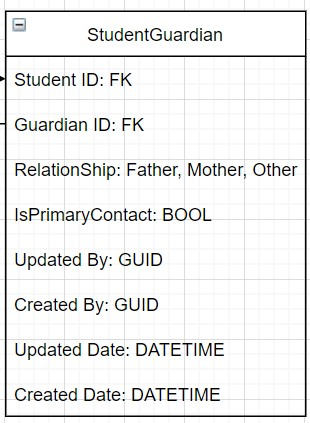
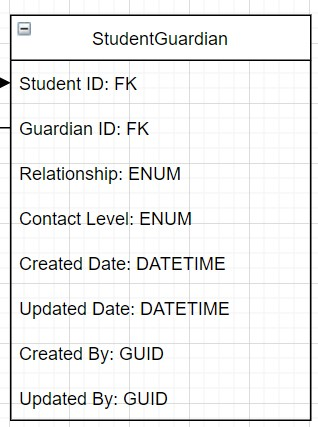
DATA: StudentGuardian Model & Migration

Changed region(s): [[0.0, 0.0, 1.0, 1.0]]

diff --git a/SCMS.Services.Api/Migrations/20211107160259_AddStudentGuardianModel.cs b/SCMS.Services.Api/Migrations/20211107160259_AddStudentGuardianModel.cs
@@ -1,0 +1,61 @@
+// -----------------------------------------------------------------------
+// Copyright (c) Signature Chess Club & MumsWhoCode. All rights reserved.
+// -----------------------------------------------------------------------
+
+using System;
+using Microsoft.EntityFrameworkCore.Migrations;
+
+#nullable disable
+
+namespace SCMS.Services.Api.Migrations
+{
+    public partial class AddStudentGuardianModel : Migration
+    {
+        protected override void Up(MigrationBuilder migrationBuilder)
+        {
+            migrationBuilder.CreateTable(
+                name: "StudentGuardians",
+                columns: table => new
+                {
+                    StudentId = table.Column<Guid>(type: "uniqueidentifier", nullable: false),
+                    GuardianId = table.Column<Guid>(type: "uniqueidentifier", nullable: false),
+                    Relation = table.Column<int>(type: "int", nullable: false),
+                    Level = table.Column<int>(type: "int", nullable: false),
+                    CreatedDate = table.Column<DateTimeOffset>(type: "datetimeoffset", nullable: false),
+                    UpdatedDate = table.Column<DateTimeOffset>(type: "datetimeoffset", nullable: false),
+                    CreatedBy = table.Column<Guid>(type: "uniqueidentifier", nullable: false),
+                    UpdatedBy = table.Column<Guid>(type: "uniqueidentifier", nullable: false)
+                },
+                constraints: table =>
+                {
+                    table.PrimaryKey("PK_StudentGuardians", x => new { x.StudentId, x.GuardianId });
+                    table.ForeignKey(
+                        name: "FK_StudentGuardians_Users_CreatedBy",
+                        column: x => x.CreatedBy,
+                        principalTable: "Users",
+                        principalColumn: "Id");
+                    table.ForeignKey(
+                        name: "FK_StudentGuardians_Users_UpdatedBy",
+                        column: x => x.UpdatedBy,
+                        principalTable: "Users",
+                        principalColumn: "Id");
+                });
+
+            migrationBuilder.CreateIndex(
+                name: "IX_StudentGuardians_CreatedBy",
+                table: "StudentGuardians",
+                column: "CreatedBy");
+
+            migrationBuilder.CreateIndex(
+                name: "IX_StudentGuardians_UpdatedBy",
+                table: "StudentGuardians",
+                column: "UpdatedBy");
+        }
+
+        protected override void Down(MigrationBuilder migrationBuilder)
+        {
+            migrationBuilder.DropTable(
+                name: "StudentGuardians");
+        }
+    }
+}

diff --git a/SCMS.Services.Api/Brokers/Storages/StorageBroker.StudentGuardian.References.cs b/SCMS.Services.Api/Brokers/Storages/StorageBroker.StudentGuardian.References.cs
@@ -1,0 +1,31 @@
+// -----------------------------------------------------------------------
+// Copyright (c) Signature Chess Club & MumsWhoCode. All rights reserved.
+// -----------------------------------------------------------------------
+
+using Microsoft.EntityFrameworkCore;
+using SCMS.Services.Api.Models.Foundations.StudentGuardians;
+
+namespace SCMS.Services.Api.Brokers.Storages
+{
+    public partial class StorageBroker
+    {
+        public void SetStudentGuardianReferences(ModelBuilder modelBuilder)
+        {
+            modelBuilder.Entity<StudentGuardian>()
+                .HasKey(studentGuardian =>
+                    new { studentGuardian.StudentId, studentGuardian.GuardianId });
+
+            modelBuilder.Entity<StudentGuardian>()
+                .HasOne(studentGuardian => studentGuardian.CreatedByUser)
+                .WithMany(user => user.CreatedStudentGuardians)
+                .HasForeignKey(studentGuardian => studentGuardian.CreatedBy)
+                .OnDelete(DeleteBehavior.NoAction);
+
+            modelBuilder.Entity<StudentGuardian>()
+                .HasOne(studentGuardian => studentGuardian.UpdatedByUser)
+                .WithMany(user => user.UpdatedStudentGuardians)
+                .HasForeignKey(studentGuardian => studentGuardian.UpdatedBy)
+                .OnDelete(DeleteBehavior.NoAction);
+        }
+    }
+}

diff --git a/SCMS.Services.Api/Models/Foundations/StudentGuardians/StudentGuardian.cs b/SCMS.Services.Api/Models/Foundations/StudentGuardians/StudentGuardian.cs
@@ -1,0 +1,25 @@
+// -----------------------------------------------------------------------
+// Copyright (c) Signature Chess Club & MumsWhoCode. All rights reserved.
+// -----------------------------------------------------------------------
+
+using System;
+using SCMS.Services.Api.Models.Foundations.Users;
+
+namespace SCMS.Services.Api.Models.Foundations.StudentGuardians
+{
+    public class StudentGuardian
+    {
+        public Guid StudentId { get; set; }
+        public Guid GuardianId { get; set; }
+        public Relationship Relation { get; set; }
+        public ContactLevel Level { get; set; }
+        public DateTimeOffset CreatedDate { get; set; }
+        public DateTimeOffset UpdatedDate { get; set; }
+
+        public Guid CreatedBy { get; set; }
+        public User CreatedByUser { get; set; }
+
+        public Guid UpdatedBy { get; set; }
+        public User UpdatedByUser { get; set; }
+    }
+}

diff --git a/SCMS.Services.Api/Migrations/20211107160259_AddStudentGuardianModel.Designer.cs b/SCMS.Services.Api/Migrations/20211107160259_AddStudentGuardianModel.Designer.cs
@@ -3,6 +3,7 @@ using System;
 using Microsoft.EntityFrameworkCore;
 using Microsoft.EntityFrameworkCore.Infrastructure;
 using Microsoft.EntityFrameworkCore.Metadata;
+using Microsoft.EntityFrameworkCore.Migrations;
 using Microsoft.EntityFrameworkCore.Storage.ValueConversion;
 using SCMS.Services.Api.Brokers.Storages;
 
@@ -11,9 +12,10 @@ using SCMS.Services.Api.Brokers.Storages;
 namespace SCMS.Services.Api.Migrations
 {
     [DbContext(typeof(StorageBroker))]
-    partial class StorageBrokerModelSnapshot : ModelSnapshot
+    [Migration("20211107160259_AddStudentGuardianModel")]
+    partial class AddStudentGuardianModel
     {
-        protected override void BuildModel(ModelBuilder modelBuilder)
+        protected override void BuildTargetModel(ModelBuilder modelBuilder)
         {
 #pragma warning disable 612, 618
             modelBuilder

diff --git a/SCMS.Services.Api/Models/Foundations/Users/User.cs b/SCMS.Services.Api/Models/Foundations/Users/User.cs
@@ -7,6 +7,7 @@ using System.Collections.Generic;
 using System.Text.Json.Serialization;
 using SCMS.Services.Api.Models.Foundations.Guardians;
 using SCMS.Services.Api.Models.Foundations.Schools;
+using SCMS.Services.Api.Models.Foundations.StudentGuardians;
 using SCMS.Services.Api.Models.Foundations.Students;
 using SCMS.Services.Api.Models.Foundations.StudentSchools;
 
@@ -40,5 +41,11 @@ namespace SCMS.Services.Api.Models.Foundations.Users
 
         [JsonIgnore]
         public IEnumerable<Guardian> UpdatedGuardians { get; set; }
+
+        [JsonIgnore]
+        public IEnumerable<StudentGuardian> CreatedStudentGuardians { get; set; }
+
+        [JsonIgnore]
+        public IEnumerable<StudentGuardian> UpdatedStudentGuardians { get; set; }
     }
 }

diff --git a/SCMS.Services.Api/Models/Foundations/StudentGuardians/Relationship.cs b/SCMS.Services.Api/Models/Foundations/StudentGuardians/Relationship.cs
@@ -2,13 +2,12 @@
 // Copyright (c) Signature Chess Club & MumsWhoCode. All rights reserved.
 // -----------------------------------------------------------------------
 
-using Microsoft.EntityFrameworkCore;
-using SCMS.Services.Api.Models.Foundations.Users;
-
-namespace SCMS.Services.Api.Brokers.Storages
+namespace SCMS.Services.Api.Models.Foundations.StudentGuardians
 {
-    public partial class StorageBroker
+    public enum Relationship
     {
-        DbSet<User> Users { get; set; }
+        Mother,
+        Father,
+        Other
     }
 }

diff --git a/SCMS.Services.Api/Services/Foundations/Schools/SchoolService.Exceptions.cs b/SCMS.Services.Api/Services/Foundations/Schools/SchoolService.Exceptions.cs
@@ -45,7 +45,7 @@ namespace SCMS.Services.Api.Services.Foundations.Schools
 
                 throw CreateAndLogDependencyValidationException(alreadyExistsSchoolException);
             }
-            catch(ForeignKeyConstraintConflictException foreignKeyConstraintConflicException)
+            catch (ForeignKeyConstraintConflictException foreignKeyConstraintConflicException)
             {
                 var invalidSchoolReferenceException =
                     new InvalidSchoolReferenceException(foreignKeyConstraintConflicException);

diff --git a/SCMS.Services.Api/Models/Foundations/StudentGuardians/ContactLevel.cs b/SCMS.Services.Api/Models/Foundations/StudentGuardians/ContactLevel.cs
@@ -2,13 +2,11 @@
 // Copyright (c) Signature Chess Club & MumsWhoCode. All rights reserved.
 // -----------------------------------------------------------------------
 
-using Microsoft.EntityFrameworkCore;
-using SCMS.Services.Api.Models.Foundations.Users;
-
-namespace SCMS.Services.Api.Brokers.Storages
+namespace SCMS.Services.Api.Models.Foundations.StudentGuardians
 {
-    public partial class StorageBroker
+    public enum ContactLevel
     {
-        DbSet<User> Users { get; set; }
+        Primary,
+        Secondary
     }
 }

diff --git a/SCMS.Services.Api/Brokers/Storages/StorageBroker.StudentGuardian.cs b/SCMS.Services.Api/Brokers/Storages/StorageBroker.StudentGuardian.cs
@@ -3,12 +3,12 @@
 // -----------------------------------------------------------------------
 
 using Microsoft.EntityFrameworkCore;
-using SCMS.Services.Api.Models.Foundations.Users;
+using SCMS.Services.Api.Models.Foundations.StudentGuardians;
 
 namespace SCMS.Services.Api.Brokers.Storages
 {
     public partial class StorageBroker
     {
-        DbSet<User> Users { get; set; }
+        DbSet<StudentGuardian> StudentGuardians { get; set; }
     }
 }

diff --git a/SCMS.Services.Api/Brokers/Storages/IStorageBroker.StudentGuardian.cs b/SCMS.Services.Api/Brokers/Storages/IStorageBroker.StudentGuardian.cs
@@ -2,13 +2,9 @@
 // Copyright (c) Signature Chess Club & MumsWhoCode. All rights reserved.
 // -----------------------------------------------------------------------
 
-using Microsoft.EntityFrameworkCore;
-using SCMS.Services.Api.Models.Foundations.Users;
-
 namespace SCMS.Services.Api.Brokers.Storages
 {
-    public partial class StorageBroker
+    public partial interface IStorageBroker
     {
-        DbSet<User> Users { get; set; }
     }
 }

diff --git a/SCMS.Services.Api/Models/Foundations/Students/Exceptions/InvalidStudentReferenceException.cs b/SCMS.Services.Api/Models/Foundations/Students/Exceptions/InvalidStudentReferenceException.cs
@@ -10,7 +10,7 @@ namespace SCMS.Services.Api.Models.Foundations.Students.Exceptions
     public class InvalidStudentReferenceException : Xeption
     {
         public InvalidStudentReferenceException(Exception innerException)
-            : base(message:"Invalid student reference error occurred, contact support")
+            : base(message: "Invalid student reference error occurred, contact support")
         { }
     }
 }

diff --git a/SCMS.Services.Api/Brokers/Storages/StorageBroker.cs b/SCMS.Services.Api/Brokers/Storages/StorageBroker.cs
@@ -25,6 +25,7 @@ namespace SCMS.Services.Api.Brokers.Storages
             AddSchoolReferences(modelBuilder);
             AddStudentSchoolReferences(modelBuilder);
             AddGuardianReferences(modelBuilder);
+            SetStudentGuardianReferences(modelBuilder);
         }
 
         protected override void OnConfiguring(DbContextOptionsBuilder optionsBuilder)
